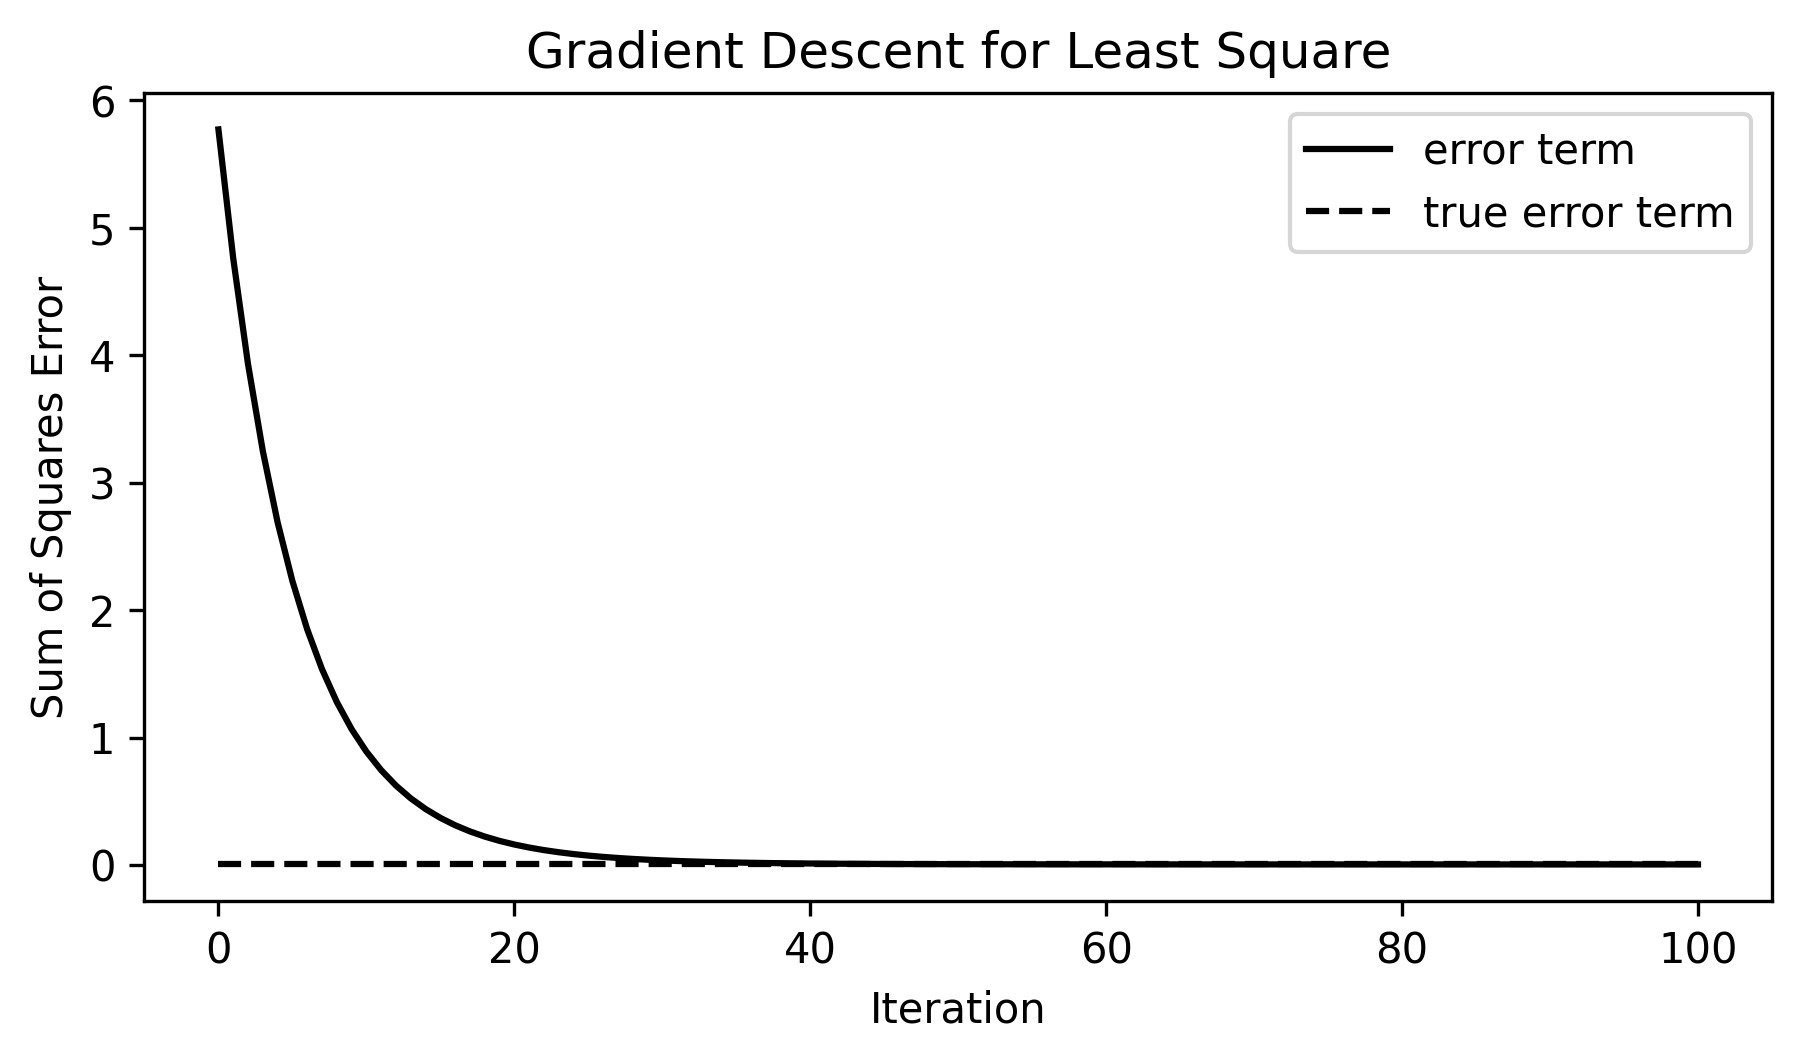
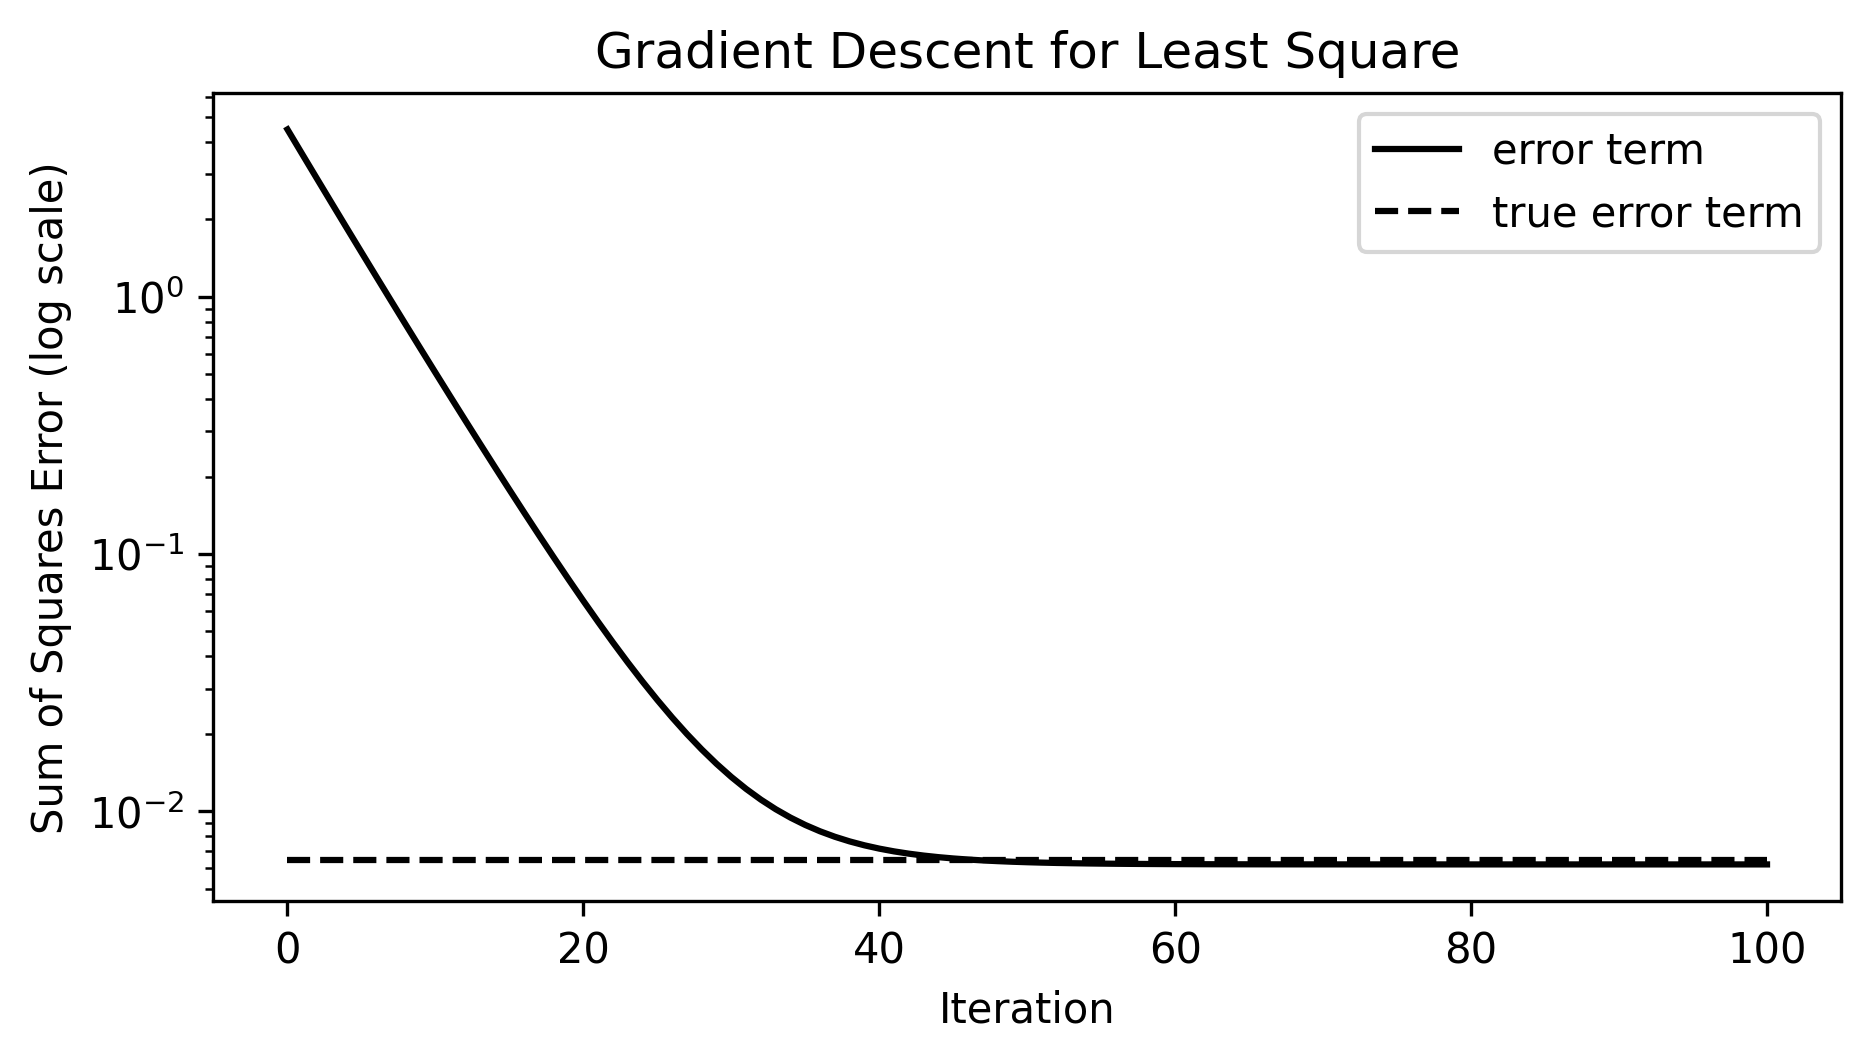
[update] the post

diff --git a/docs/_math/gradient_methods.py b/docs/_math/gradient_methods.py
@@ -65,12 +65,10 @@ def simulate_data(m, n):
     return A, b, x 
     
 
-    
-    
-if __name__ == "__main__":
+def case_study1():
     # assume m > n
     m = 100  # number of samples
-    n = 3  # number of features
+    n = 3 # number of features
     # x is coefficient vector
     A, b, x = simulate_data(m, n)
     # calculate objective function and gradient
@@ -88,14 +86,15 @@ if __name__ == "__main__":
     # plot the error term (the sums of squares error)
     fig, ax = plt.subplots(1, 1, figsize=(7, 3.5))
     ax.plot([objective(x) for x in xt], "k" ,label="error term")
+    ax.set_yscale("log")
     ax.set_title("Gradient Descent for Least Square")
     ax.plot([least_square_sums(A, b, x)]*len(xt), 'k--',
                     label="true error term")
     ax.set_xlabel("Iteration")
-    ax.set_ylabel("Sum of Squares Error") 
+    ax.set_ylabel("Sum of Squares Error (log scale)") 
     ax.legend()
-    # plt.savefig('../math/images/gradient-ols.png',
-    #             dpi=300, bbox_inches="tight")
+    plt.savefig('../math/images/gradient-ols.png',
+                dpi=300, bbox_inches="tight")
     df = pd.DataFrame.from_dict(
         {
             "Initial guess (x0)": x0.flatten(),
@@ -103,6 +102,47 @@ if __name__ == "__main__":
             "Estimated coefficients (xt)": xt[-1].flatten()
         }
     )
+    
+    print(df.to_markdown())
+
+
+def case_study2():
+    m, n = 100, 1000
+    A = np.random.normal(0, 1, (m, n))
+    b = np.random.normal(0, 1, m)
+    # The least norm solution is given by the pseudo-inverse
+    x_opt = np.linalg.pinv(A.T @ A) @ A.T @ b
+    objective = lambda x: least_square_sums(A, b, x)
+    gradient = lambda x: leaste_square_gradient(A, b, x)
+    
+    x0 = np.random.normal(0, 1, n)
+    xs = gradient_descent(x0, [0.1]*100, gradient)
+    
+    fig, ax = plt.subplots(1, 1, figsize=(7, 3.5))
+    ax.plot([objective(x) for x in xs], "k", label="error term")
+    ax.set_yscale("log")
+    ax.plot([least_square_sums(A, b, x_opt)]*len(xs), 'k--',
+                        label="true error term")
+    ax.set_title("Gradient Descent for Least Square")
+    ax.set_xlabel("Iteration")
+    ax.set_ylabel("Sum of Squares Error (log scale)") 
+    ax.legend()
+    plt.savefig('../math/images/gradient-ols2.png',
+                dpi=300, bbox_inches="tight")
+    df = pd.DataFrame.from_dict(
+        {
+            "Initial guess (x0)": x0.flatten(),
+            "True coefficient (x)": x_opt.flatten(),
+            "Estimated coefficients (xt)": xs[-1].flatten()
+        }
+    )
+    
+    print(df.head().to_markdown())
+    
+if __name__ == "__main__":
+    case_study2()
+    
+    
     
 
 

diff --git a/docs/_math/gradient-methods.md b/docs/_math/gradient-methods.md
@@ -343,7 +343,7 @@ gives the true coefficients $x$, the initial guess $x_0$, and the final solution
 
 
  |   Initial guess (x0) |   True coefficient (x) |   Estimated coefficients (xt) |
-|:---------------------|:-----------------------|:------------------------------|
+|---------------------:|-----------------------:|------------------------------:|
 |           -0.831995  |              -1.94281  |                     -1.93834  |
 |           -0.0319888 |               1.51628  |                      1.53504  |
 |           -0.187633  |              -0.737795 |                     -0.736319 |
@@ -366,6 +366,44 @@ The above simulation assumes $m \gg n$. In practice, we often have $m \ll n$ and
 $$
 \lambda_{\min}(A^T A) = 0 \tag{25}
 $$
+
+The following table gives the first five true coefficients $x$, the initial guess $x_0$, and the final solution $x_t$.
+
+ |   Initial guess (x0) |   True coefficient (x) |   Estimated coefficients (xt) |
+|---------------------:|-----------------------:|------------------------------:|
+ |            -2.38525  |             0.00156901 |                     -2.3963   |
+|            -0.877133 |            -0.00940305 |                     -0.76494  |
+|            -0.166967 |            -0.00913699 |                     -0.1627   |
+|            -0.797044 |            -0.00410237 |                     -0.264272 |
+|            -0.611308 |            -0.0141191  |                     -0.868437 |
+
+
+<div class='figure'>
+    <img src="/math/images/gradient-ols2.png"
+         alt="Inequality bounds compare"
+         style="width: 70%; display: block; margin: 0 auto;"/>
+    <div class='caption'>
+        <span class='caption-label'>Figure 7.</span> The plot of the loss function and its convergence process for underdetermined least squares problem.
+    </div>
+</div>
+
+As it is shown in figure 7, the loss function does not converge to a minimum. This is because the objective function is not strongly convex. In this case, we can use the proximal gradient descent algorithm to solve the problem. The proximal gradient descent algorithm is a variant of gradient descent that adds a proximal term to the objective function.
+
+It is also called the regularized gradient descent algorithm. The proximal term is a regularization term that penalizes the magnitude of the coefficients. The proximal term is defined as
+
+$$
+\text{prox}_{\gamma g}(x) = \text{argmin}_{y} \frac{1}{2} \|y - x\|^2 + \gamma g(y) \tag{26}
+$$
+
+
+
+
+
+
+
+
+
+
 
 
 {% endkatexmm %}
